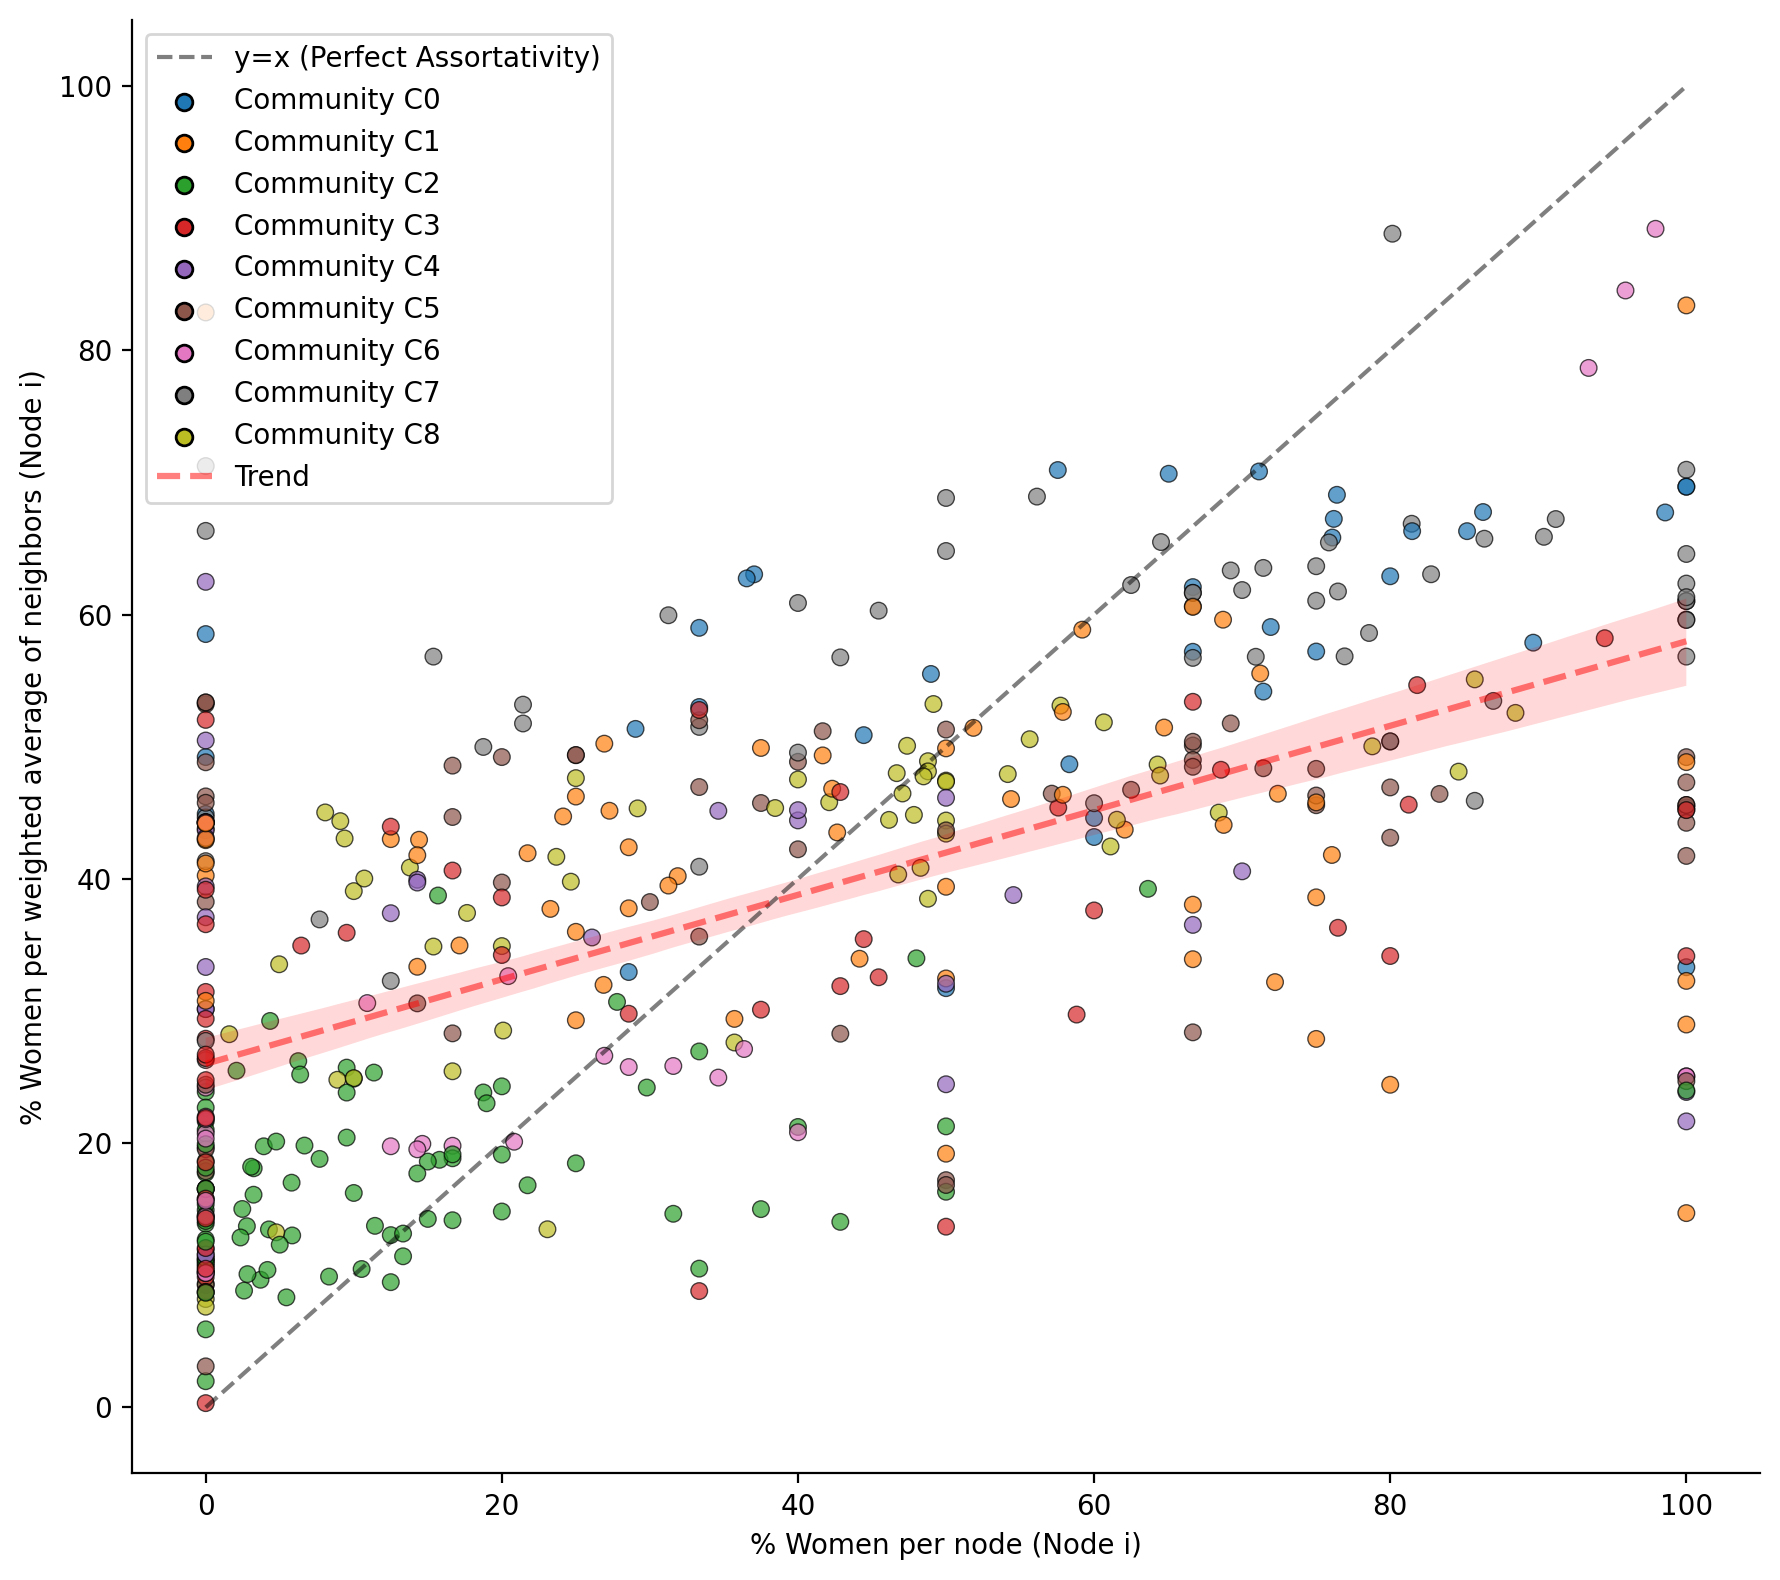
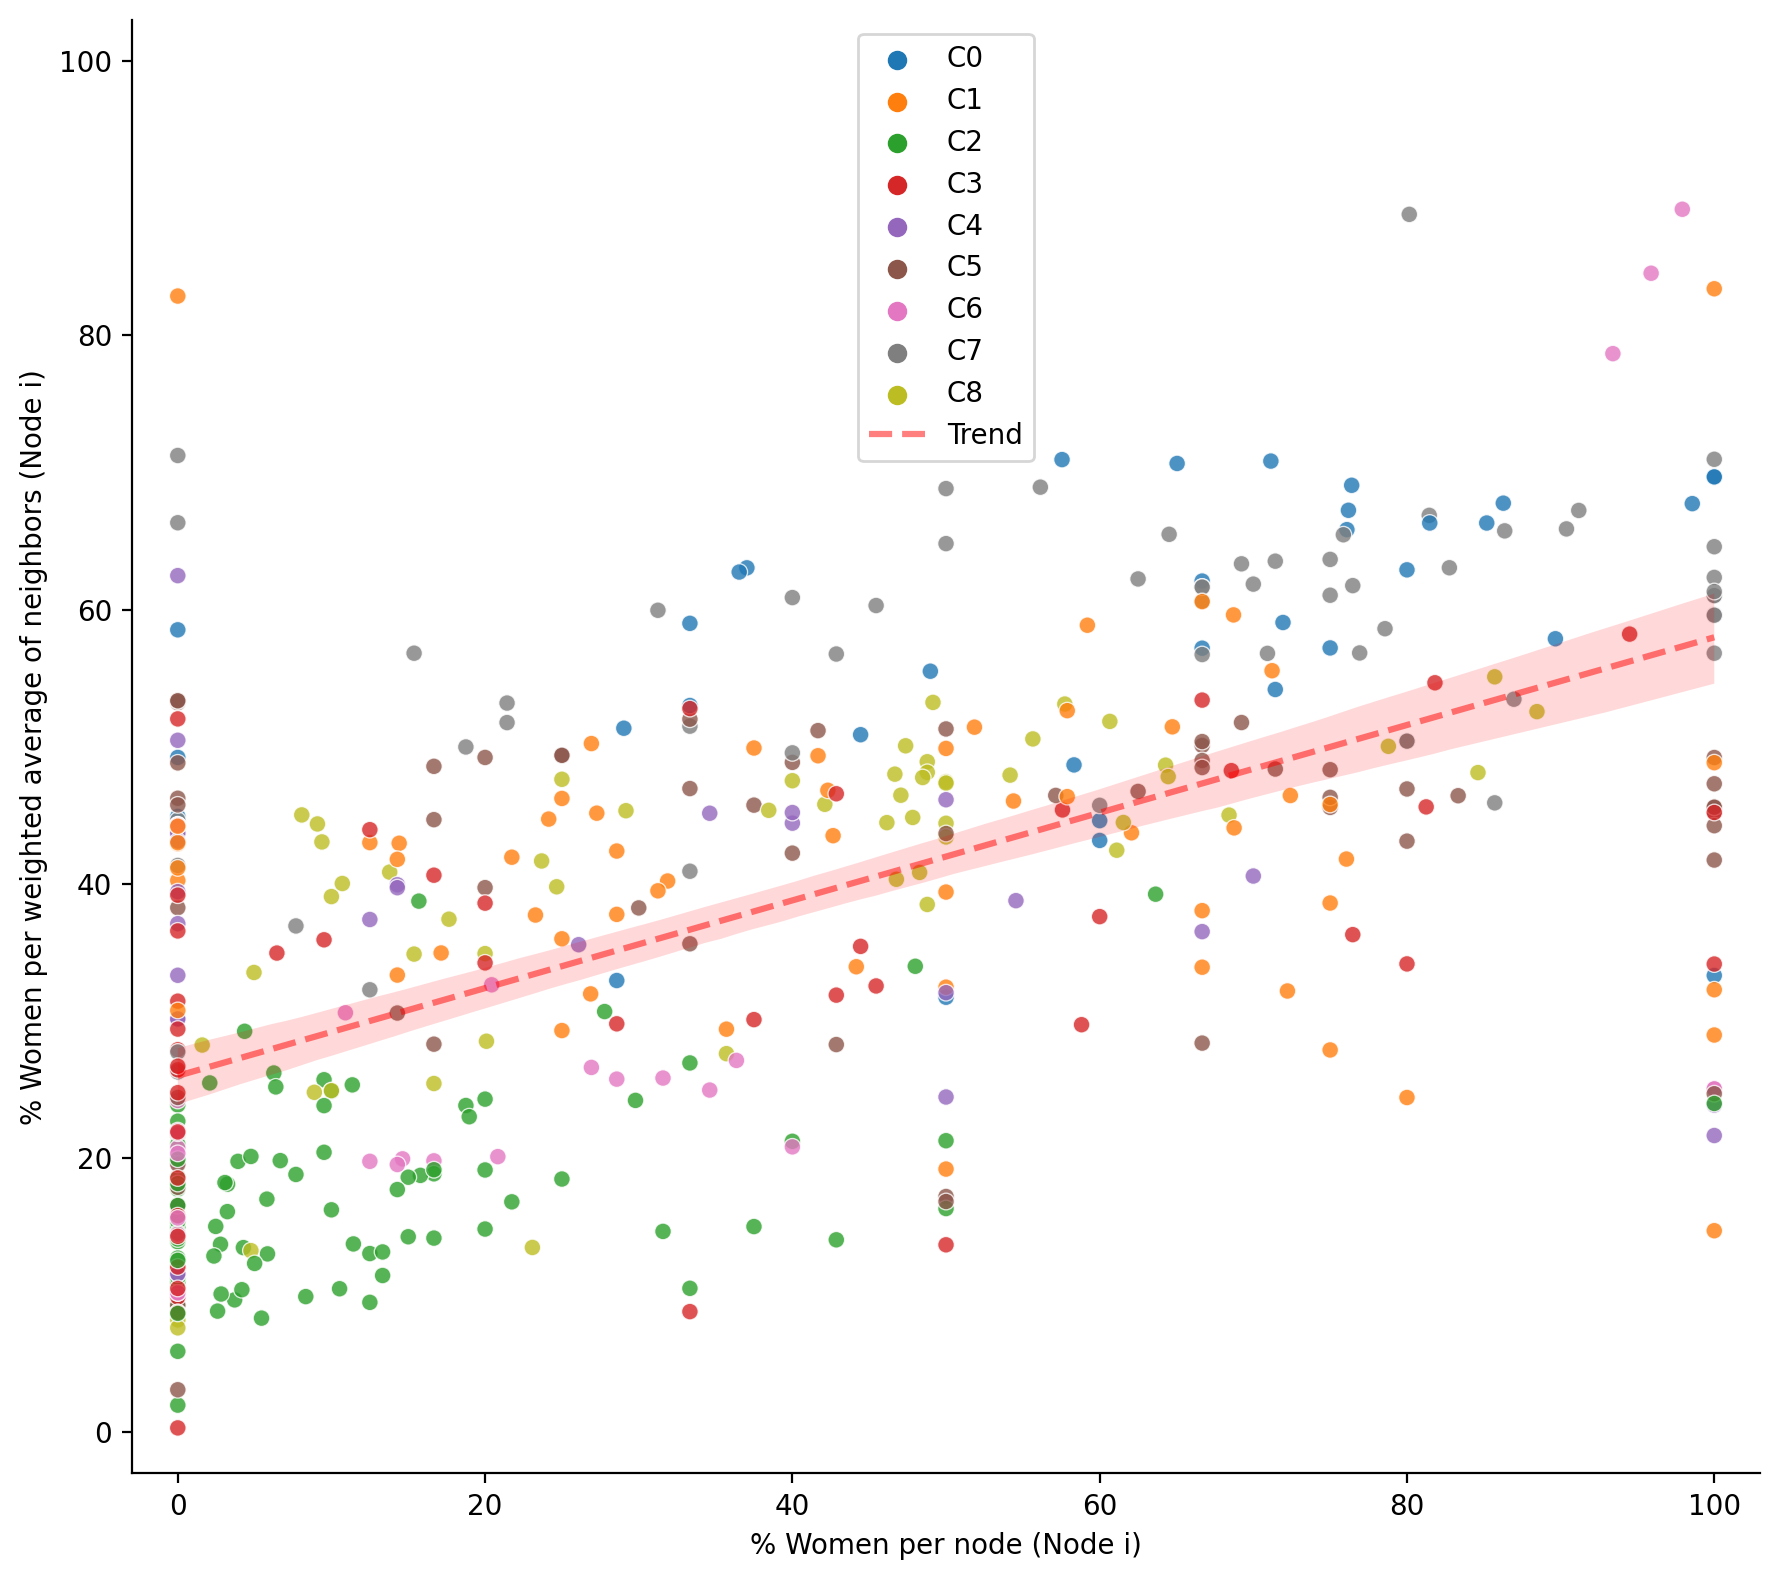
Update images and enhance plotting functions for CAES and CIUO

diff --git a/src/plotting.py b/src/plotting.py
@@ -637,7 +637,7 @@ def plot_projection_by_group(
 	for group, color in group_color_map.items():
 		plt.scatter([], [], color=color, label=label_fn(group))
 
-	plt.legend(title=legend_title, fontsize=9, loc='best')
+	plt.legend(title=legend_title, fontsize=9, loc='best', borderaxespad=8.0)
 	plt.title(title)
 	plt.axis("off")
 	if save:
@@ -725,7 +725,7 @@ def plot_projection_gradient(
 
 	sm = plt.cm.ScalarMappable(cmap=colormap, norm=norm)
 	sm.set_array([])
-	cbar = fig.colorbar(sm, ax=ax, shrink=0.4, pad=0.01)
+	cbar = fig.colorbar(sm, ax=ax, shrink=0.4, pad=-0.15)
 	cbar.set_label(colorbar_label)
 
 	ax.set_title(title)
@@ -968,7 +968,8 @@ def color_ciuo3cat_map_ciuo(ciuo_df: pd.DataFrame, cat_col: str, base_color_col:
 def plot_top_n_bar(
 		df: pd.DataFrame,
 		label_col: str,
-		val_col: str, 
+		val_col: str,
+		color_col: str,
 		title: str,
 		xlabel: str,
 		top_n: int = 15,
@@ -977,15 +978,38 @@ def plot_top_n_bar(
 	) -> None:
 	if val_col not in df.columns or label_col not in df.columns:
 		return
-	top_n = df.nlargest(top_n, val_col)
+	top_df = df.nlargest(top_n, val_col)
+
+	palette_by_label = {}
+	for _, row in top_df.iterrows():
+		label = row[label_col]
+		if color_col in top_df.columns:
+			palette_by_label[label] = ut.parse_color(row[color_col])
+		else:
+			palette_by_label[label] = "gray"
+
 	plt.figure(figsize=(12, 8))
-	ax = sns.barplot(data=top_n, x=val_col, y=label_col, hue=label_col, palette="mako", legend=False)
+	ax = sns.barplot(
+		data=top_df,
+		x=val_col,
+		y=label_col,
+		hue=label_col,
+		dodge=False,
+		palette=palette_by_label,
+		legend=False,
+	)
 	plt.title(title)
 	plt.xlabel(xlabel)
 	plt.ylabel("")
 	
 	ax.xaxis.set_major_formatter(plt.FuncFormatter(lambda x, loc: "{:,}".format(int(x))))
-	
+
+	# Remove axis borders
+	ax.spines['top'].set_visible(False)
+	ax.spines['right'].set_visible(False)
+	ax.spines['left'].set_visible(False)
+	ax.spines['bottom'].set_visible(False)
+
 	plt.tight_layout()
 	if save:
 		plt.savefig(output_path, dpi=300, bbox_inches='tight')
@@ -1068,7 +1092,7 @@ def plot_alpha_sensitivity(
 
 
 from scipy import stats
-def compute_and_plot_edge_correlation(G: nx.Graph, feature_map: dict, color_map: dict, title: str, output_path: Path, save: bool = True):
+def compute_and_plot_edge_correlation(G: nx.Graph, feature_map: dict, color_map: dict, title: str, output_path: Path, save: bool = True, perfect_line: bool = True) -> None:
 	# Only keep nodes that have the feature
 	valid_nodes = set(feature_map.keys())
 	
@@ -1108,13 +1132,14 @@ def compute_and_plot_edge_correlation(G: nx.Graph, feature_map: dict, color_map:
 	plt.figure(figsize=(9, 8))
 	
 	# Scatter plot of node feature vs average neighbor feature, colored by community
-	sns.scatterplot(x=x_vals, y=y_vals, alpha=0.7, edgecolor="black", c=[color_map.get(u, "gray") for u in plotted_nodes])
-	plt.plot([0, 100], [0, 100], "k--", label="y=x (Perfect Assortativity)", alpha=0.5)
+	sns.scatterplot(x=x_vals, y=y_vals, alpha=0.8, c=[color_map.get(u, "gray") for u in plotted_nodes])
+	if perfect_line:
+		plt.plot([0, 100], [0, 100], "k--", label="y=x (Perfect Assortativity)", alpha=0.5)
 	
 	# Add a legend for the communities
 	unique_colors = sorted(set(color_map.get(u, "gray") for u in plotted_nodes) - {"gray"})
 	for color in unique_colors:
-		plt.scatter([], [], c=color, label=f"Community {color}", edgecolor="black")
+		plt.scatter([], [], c=color, label=color)
 	
 	# Add regression line on top to show trend
 	sns.regplot(x=x_vals, y=y_vals, scatter=False, color="red", line_kws={"linestyle": "--", "alpha": 0.5}, label="Trend")
@@ -1134,8 +1159,8 @@ def compute_and_plot_edge_correlation(G: nx.Graph, feature_map: dict, color_map:
 	plt.title(f"{title}\nAssortativity (Pearson r): {pearson_r:.4f} (p={p_value:.4e})" if title else None)
 	plt.xlabel(f"% Women per node (Node i)")
 	plt.ylabel(f"% Women per weighted average of neighbors (Node i)")
-	#plt.xlim(0, 100)
-	#plt.ylim(0, 100)
+	plt.xlim(-3, 103)
+	plt.ylim(-3, 103)
 	sns.despine()
 	plt.legend()
 

diff --git a/scripts/00_prepare_data.py b/scripts/00_prepare_data.py
@@ -57,6 +57,9 @@ def main():
 	output3 = dl.export_processed(datasets["ciuo_nodes"], DATA_PROCESSED_PATH, "nodelist_ciuo")
 	print(f"Saved merged dataset to {output1}, {output2}, and {output3}")
 
+	color_map_caes = datasets["caes_nodes"][CAES_LABEL_COLOR].to_dict()
+	color_map_ciuo = datasets["ciuo_nodes"][CIUO_LABEL_COLOR].to_dict()
+
 	# Generate exploratory data analysis plots
 	print(f"Generating exploratory plots in {IMAGE_DIR}...")
 	if "caeslabel" in datasets["caes_nodes"].columns:
@@ -64,6 +67,7 @@ def main():
 			df=datasets["caes_nodes"],
 			label_col="caeslabel",
 			val_col="n_obs",
+			color_col=CAES_LABEL_COLOR,
 			title=None,
 			xlabel="Total Workers",
 			output_path=IMAGE_DIR / "00_top_caes_workers.png",
@@ -76,6 +80,7 @@ def main():
 			df=datasets["ciuo_nodes"],
 			label_col="ciuolabel",
 			val_col="n_obs",
+			color_col=CIUO_LABEL_COLOR,
 			title=None,
 			xlabel="Total Workers",
 			output_path=IMAGE_DIR / "00_top_ciuo_workers.png",

diff --git a/scripts/14_ciuo_edge_correlation.py b/scripts/14_ciuo_edge_correlation.py
@@ -44,7 +44,8 @@ def main(enes_df=None, nodelist_ciuo_df=None):
 		color_map=color_map,
 		title=None, 
 		output_path=IMAGE_DIR / "14_ciuo_edge_correlation.png", 
-		save=True
+		save=True,
+		perfect_line=False
 	)
 
 if __name__ == "__main__":
